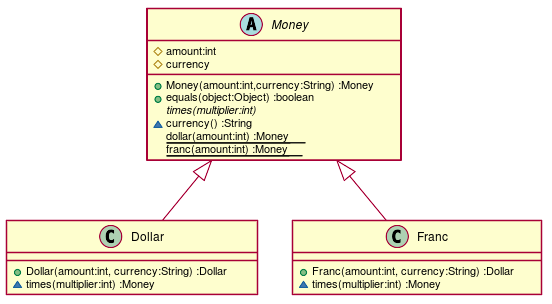
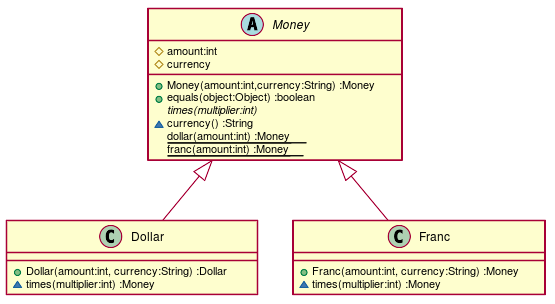
第９章 歩幅の調整 Step20

diff --git a/src/main/java/tdd/money/Franc.java b/src/main/java/tdd/money/Franc.java
@@ -2,8 +2,7 @@ package tdd.money;
 
 class Franc extends Money {
     Franc(int amount, String currency) {
-        this.amount = amount;
-        this.currency = currency;
+        super(amount, currency);
     }
     Money times(int multiplier) {
         return Money.franc(amount * multiplier);

diff --git a/docs/TDD.md b/docs/TDD.md
@@ -59,7 +59,7 @@
 ### クラス図
   
 
-![](./assets/0285dfa24ee25b18e00bb369b57da6820.png?0.6814564921867605)  
+![](./assets/0285dfa24ee25b18e00bb369b57da6820.png?0.5393399037053497)  
 ### シーケンス図
   
   
@@ -124,8 +124,7 @@ package tdd.money;
   
 class Franc extends Money {
     Franc(int amount, String currency) {
-        this.amount = amount;
-        this.currency = currency;
+        super(amount, currency);
     }
     Money times(int multiplier) {
         return Money.franc(amount * multiplier);

diff --git a/docs/src/TDD.md b/docs/src/TDD.md
@@ -65,7 +65,7 @@ class Dollar {
   ~times(multiplier:int) :Money
 }
 class Franc {
-  +Franc(amount:int, currency:String) :Dollar
+  +Franc(amount:int, currency:String) :Money
   ~times(multiplier:int) :Money
 }
 abstract Money {
